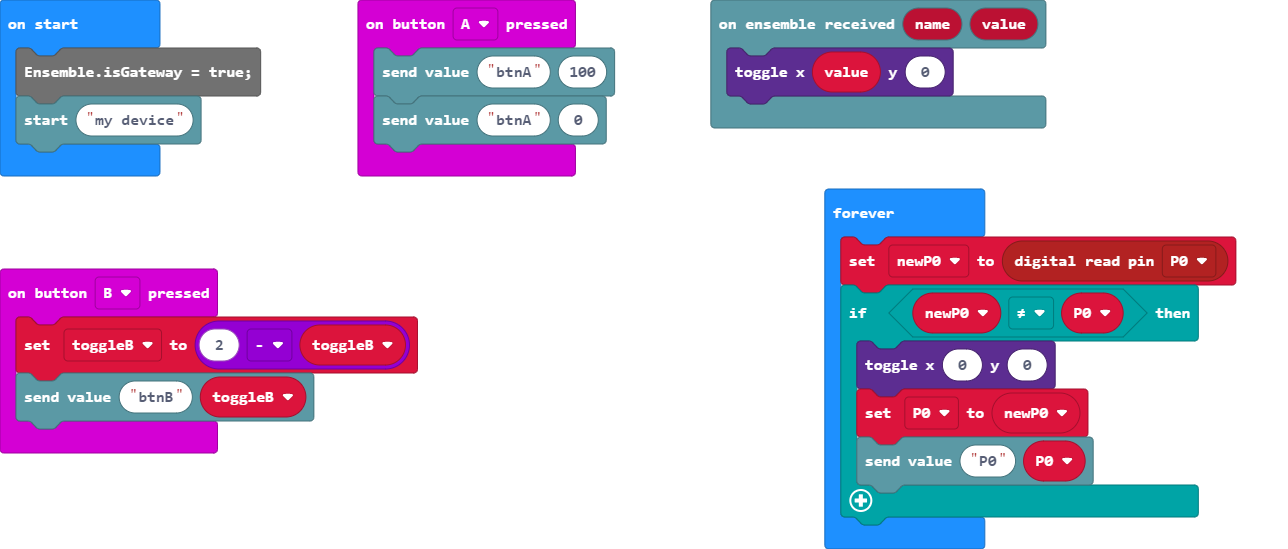
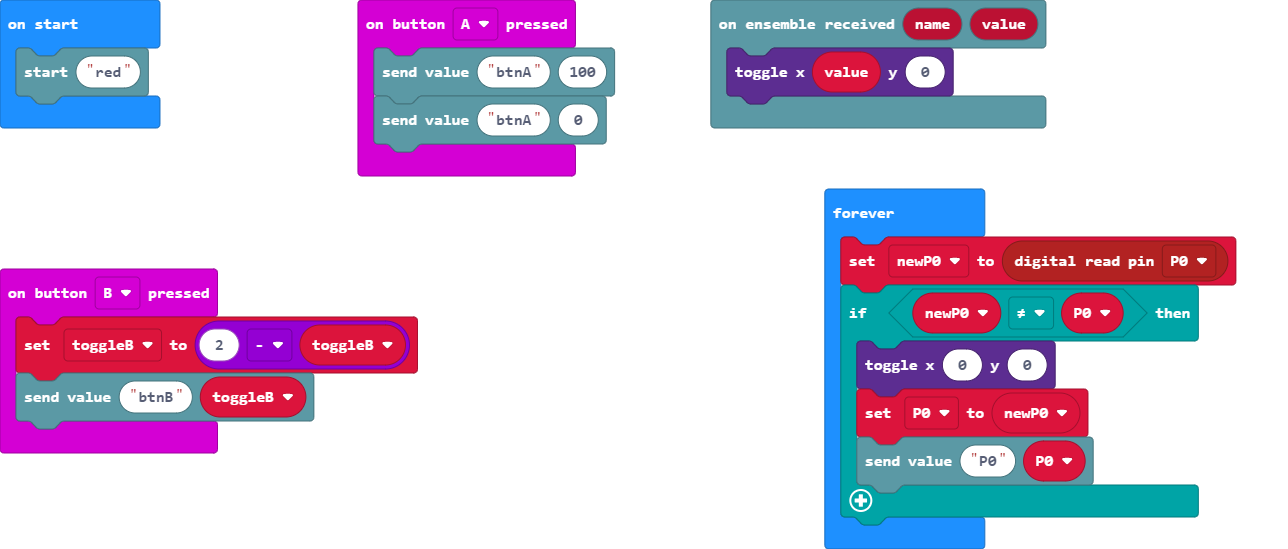
Update main.blocks, main.ts, Ensemble.ts

Changed region(s): [[0.0, 0.0619, 0.2174, 0.3406]]

diff --git a/Ensemble.ts b/Ensemble.ts
@@ -11,6 +11,7 @@ namespace Ensemble
     const POS_VALUE = POS_DEVICE_ID + 4;
     const POS_NAME = POS_VALUE + 4;
 
+    const MSG_TYPE_YOU_ARE_GATEWAY = 100;
     const MSG_TYPE_DEVICE_ID = 99;
     const MSG_TYPE_VALUE_TO_ENSEMBLE = 98;
     const MSG_TYPE_VALUE_FROM_ENSEMBLE = 97;
@@ -44,7 +45,14 @@ namespace Ensemble
 
     function sendId()
     {
-        sendPacket(MSG_TYPE_DEVICE_ID, deviceId, 0, deviceName);
+        if (isGateway)
+        {
+            sendPacket(MSG_TYPE_DEVICE_ID, deviceId, 0, "gateway");
+        }
+        else
+        {
+            sendPacket(MSG_TYPE_DEVICE_ID, deviceId, 0, deviceName);
+        }
     }
 
     control.inBackground(function ()
@@ -103,30 +111,36 @@ namespace Ensemble
 
     serial.onDataReceived(serial.delimiters(Delimiters.NewLine), function () 
     {
-        if (started && isGateway)
+        let buff = serial.readLine();
+        let toks = buff.split("|");
+        if (toks.length >= 4)
         {
-            let buff = serial.readLine();
-            let toks = buff.split("|");
-            if (toks.length >= 4)
+            let msgType = parseInt(toks[0]);
+            switch (msgType)
             {
-                let msgType = parseInt(toks[0]);
-                if (msgType == MSG_TYPE_VALUE_FROM_ENSEMBLE)
-                {
-                    let devId = parseInt(toks[1]);
-                    let value = parseFloat(toks[2]);
-                    let name = toks[3].trim();
-                    if ((devId == 0) || (devId == deviceId))
+                case MSG_TYPE_YOU_ARE_GATEWAY:
+                    isGateway = true;
+                    break;
+
+                case MSG_TYPE_VALUE_FROM_ENSEMBLE:
+                    if (started && isGateway)
                     {
-                        if (onReceivedValueHandler)
+                        let devId = parseInt(toks[1]);
+                        let value = parseFloat(toks[2]);
+                        let name = toks[3];
+                        if ((devId == 0) || (devId == deviceId))
                         {
-                            onReceivedValueHandler(name, value);        
+                            if (onReceivedValueHandler)
+                            {
+                                onReceivedValueHandler(name, value);        
+                            }
+                        }        
+                        if ((devId == 0) || (devId != deviceId))
+                        {
+                            sendPacket(msgType, devId, value, name);
                         }
-                    }        
-                    if ((devId == 0) || (devId != deviceId))
-                    {
-                        sendPacket(msgType, devId, value, name);
                     }
-                }
+                    break;
             }
         }
     })
@@ -176,9 +190,16 @@ namespace Ensemble
     //% block="start %n"
     export function start(name:string)
     {
-        deviceName = name.substr(0, MAX_NAME_LENGTH).replace("|", "_");
+        if (name.length > 0)
+        {
+            deviceName = name.substr(0, MAX_NAME_LENGTH).replace("|", "_");
+        }
+        else
+        {
+            deviceName = deviceId.toString();
+        }
         started = 1;
-        radio.setGroup(1)
+        radio.setGroup(1);
         radio.setTransmitSerialNumber(true);
         sendId();
     }

diff --git a/main.ts b/main.ts
@@ -12,8 +12,7 @@ Ensemble.onReceivedValue(function (name, value) {
 let P0 = 0
 let newP0 = 0
 let toggleB = 0
-Ensemble.isGateway = true;
-Ensemble.start("my device")
+Ensemble.start("red")
 basic.forever(function () {
     newP0 = pins.digitalReadPin(DigitalPin.P0)
     if (newP0 != P0) {
